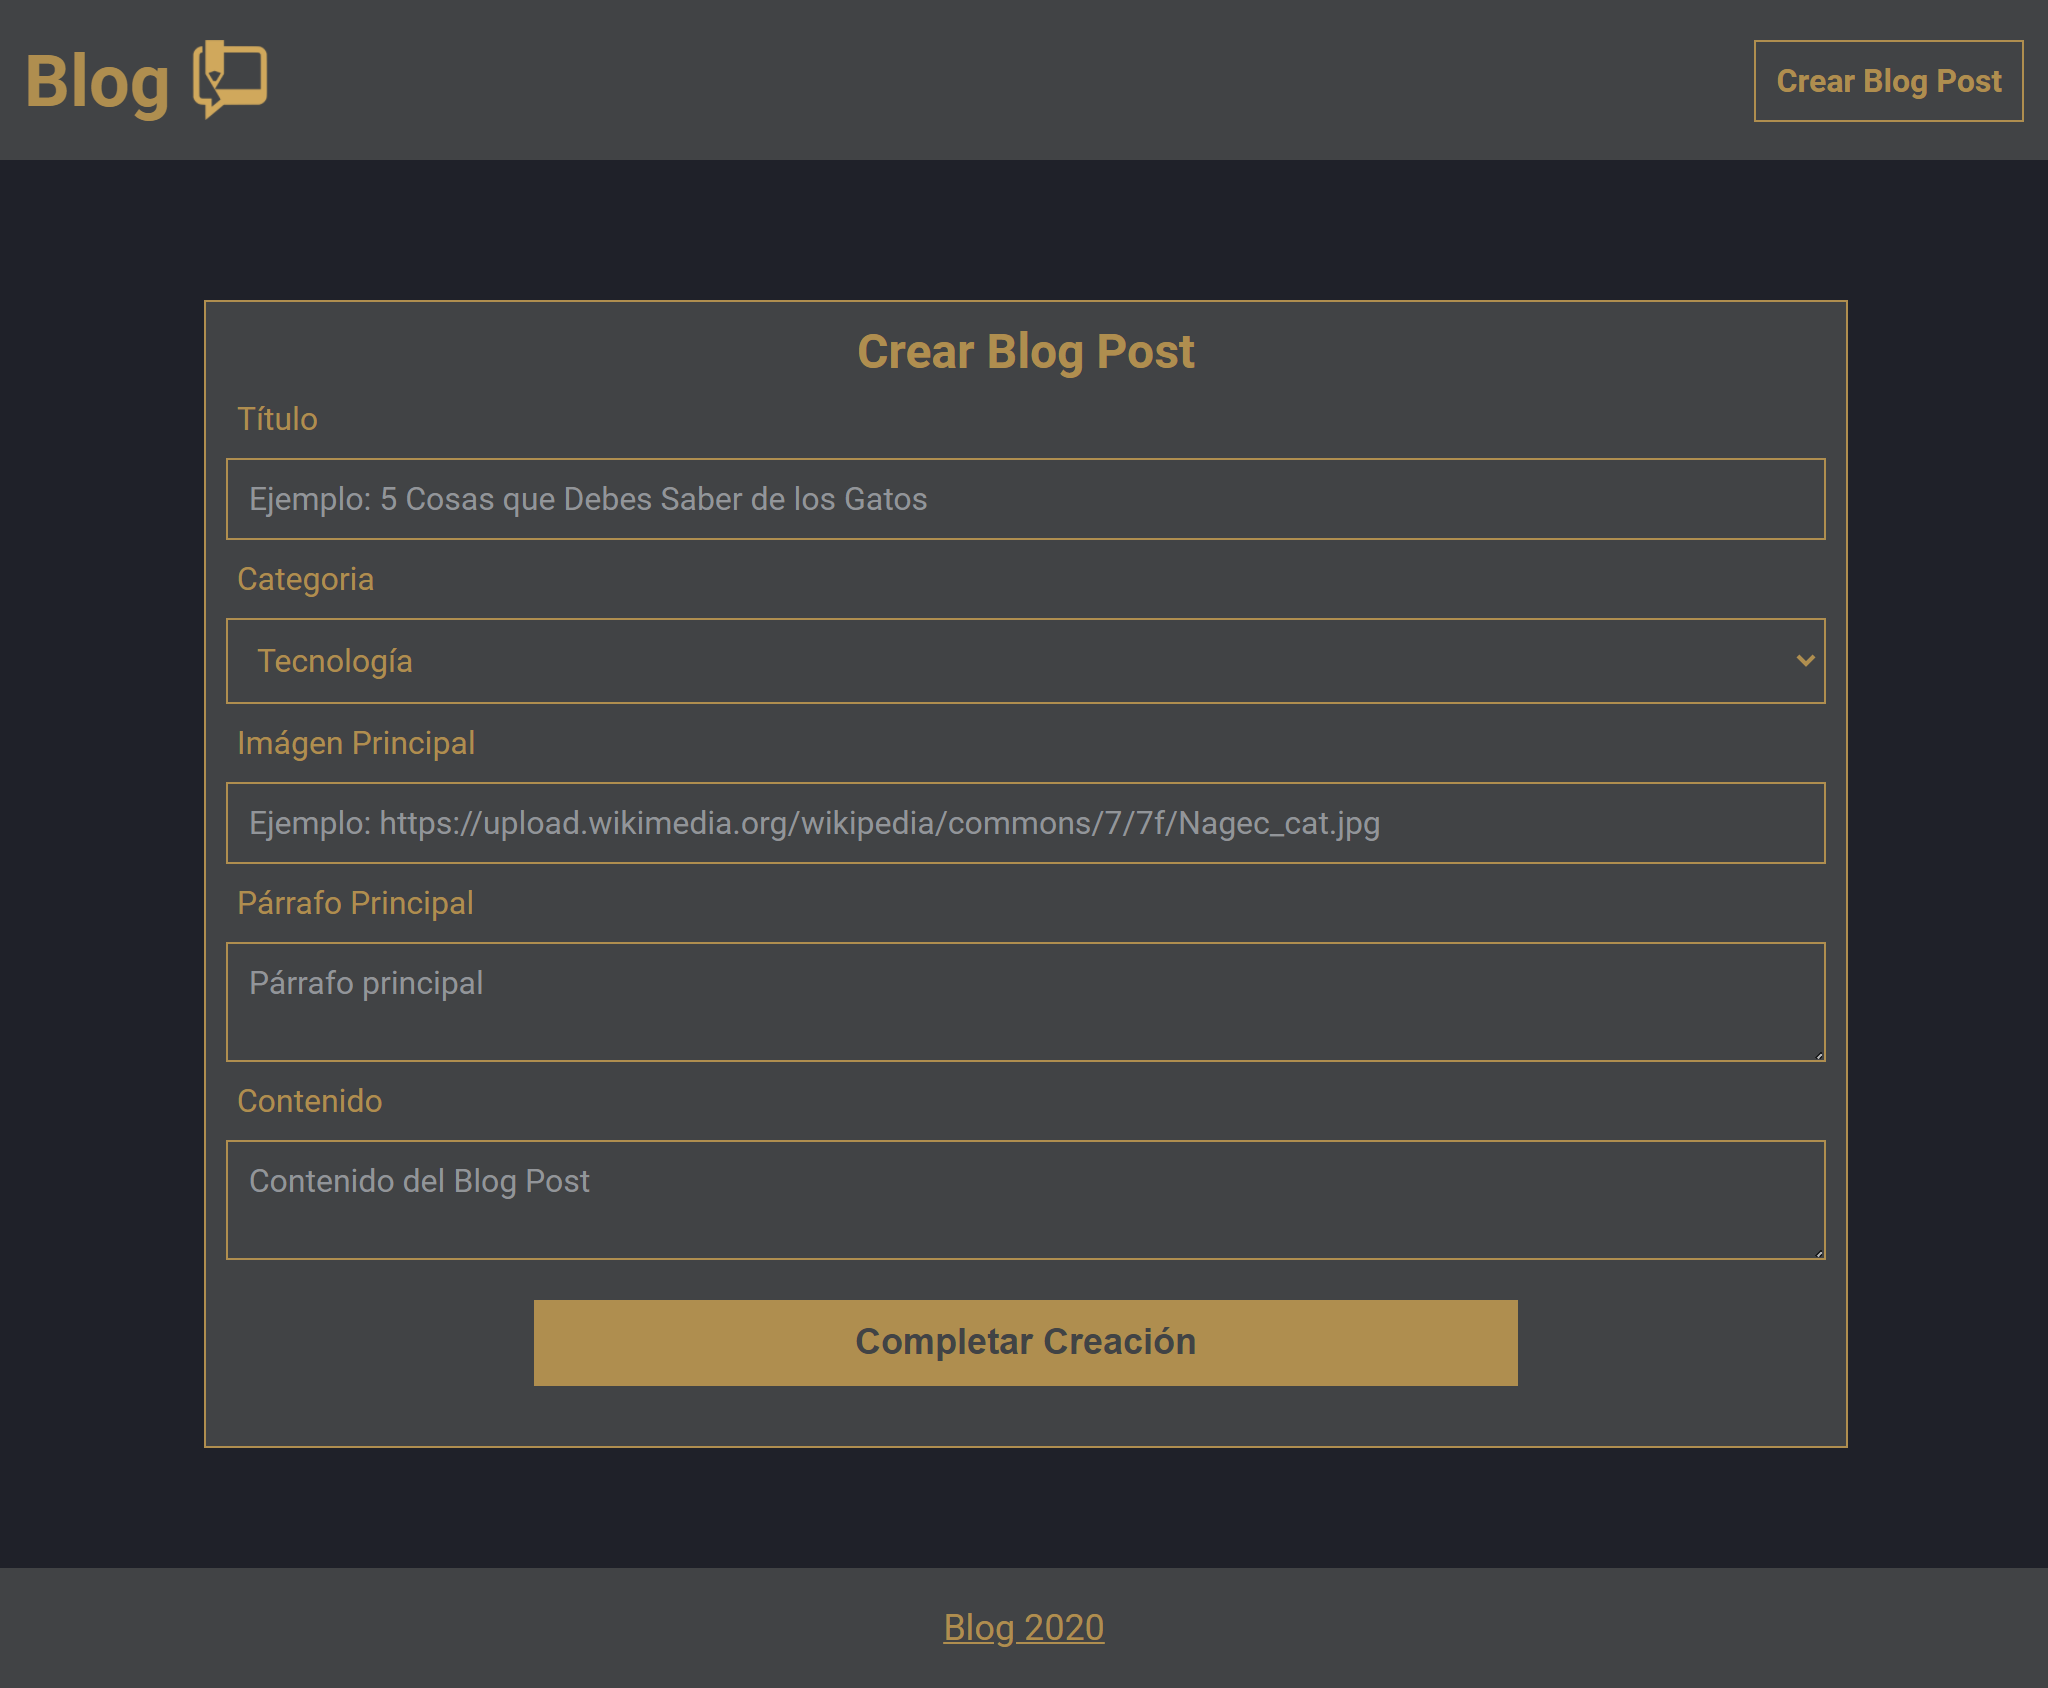
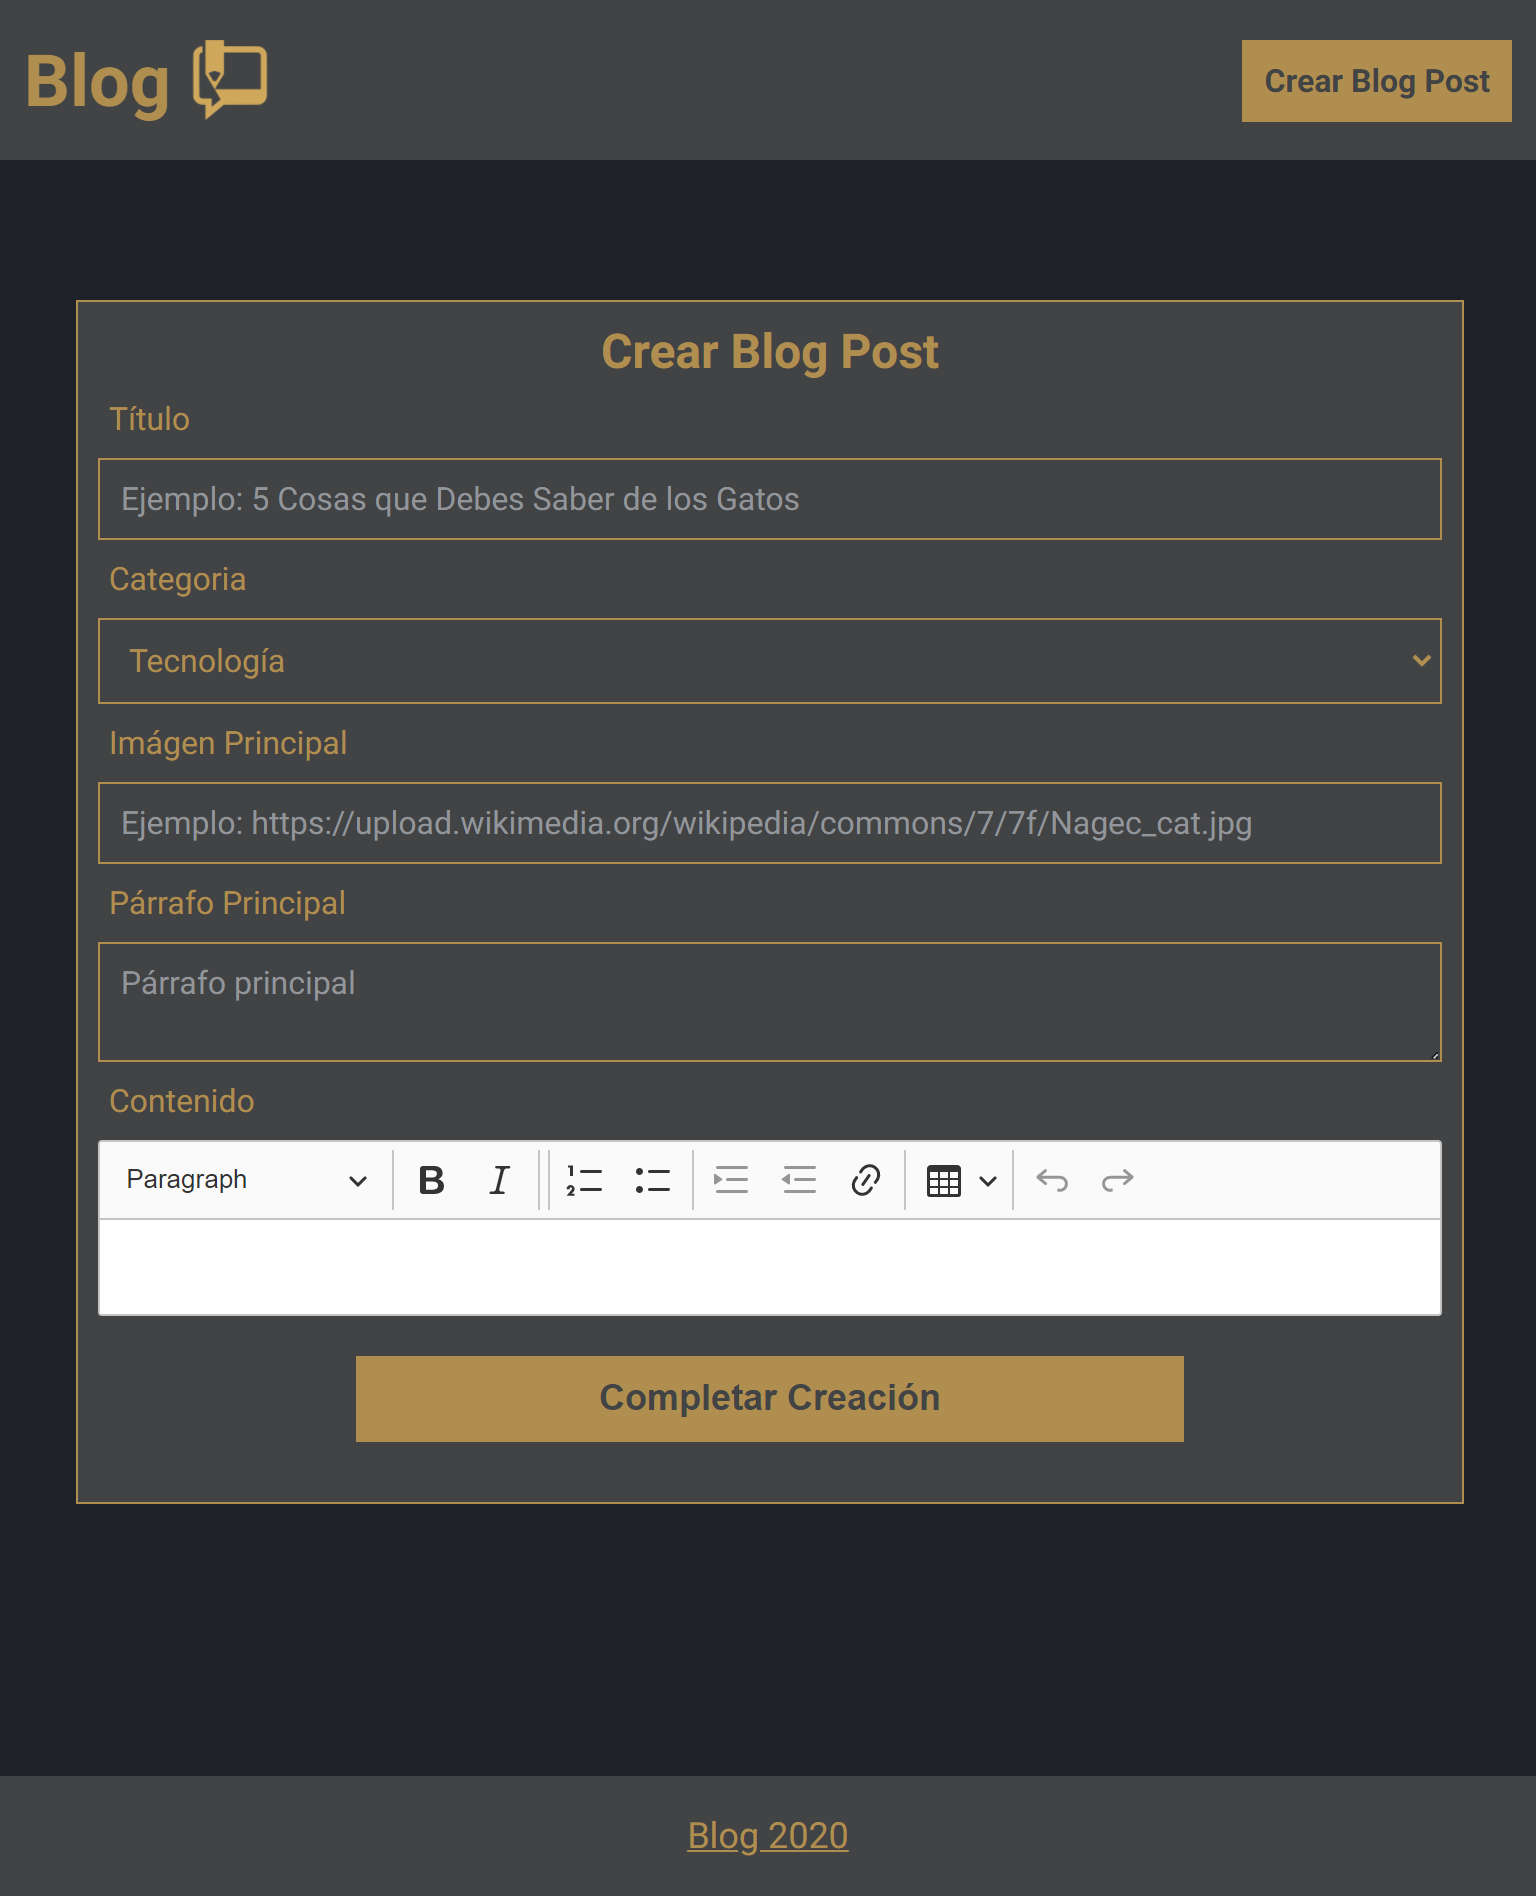
[UPDATED] CKeditor toolbar

diff --git a/src/containers/CreateBlogPost.jsx b/src/containers/CreateBlogPost.jsx
@@ -112,7 +112,25 @@ const CreateBlogPost = (props) => {
               editor={ClassicEditor}
               data=''
               config={{
-                removePlugins: ['MediaEmbed', 'ImageUpload']
+                removePlugins: ['MediaEmbed', 'ImageUpload'],
+                toolbar: [
+                  'heading',
+                  '|',
+                  'bold',
+                  'italic',
+                  '|',
+                  'numberedList',
+                  'bulletedList',
+                  '|',
+                  'indent',
+                  'outdent',
+                  'link',
+                  '|',
+                  'insertTable',
+                  '|',
+                  'undo',
+                  'redo'
+                ]
               }}
               onReady={(editor) => {
               }}
